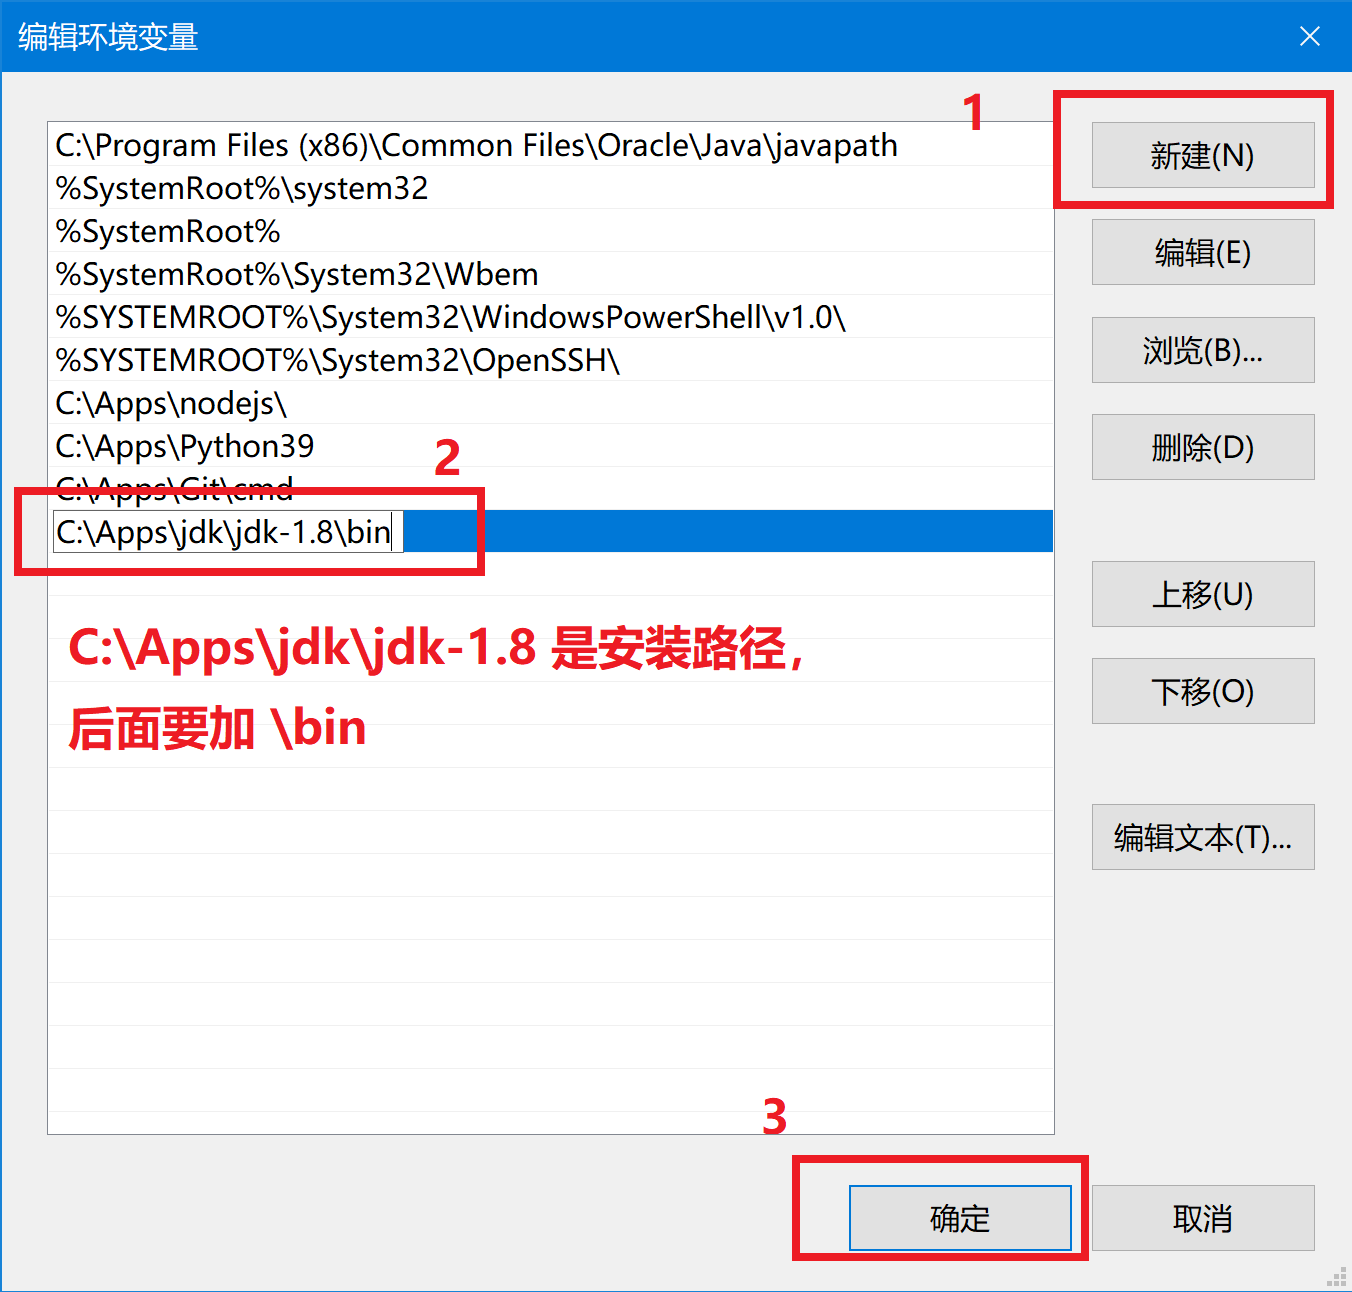
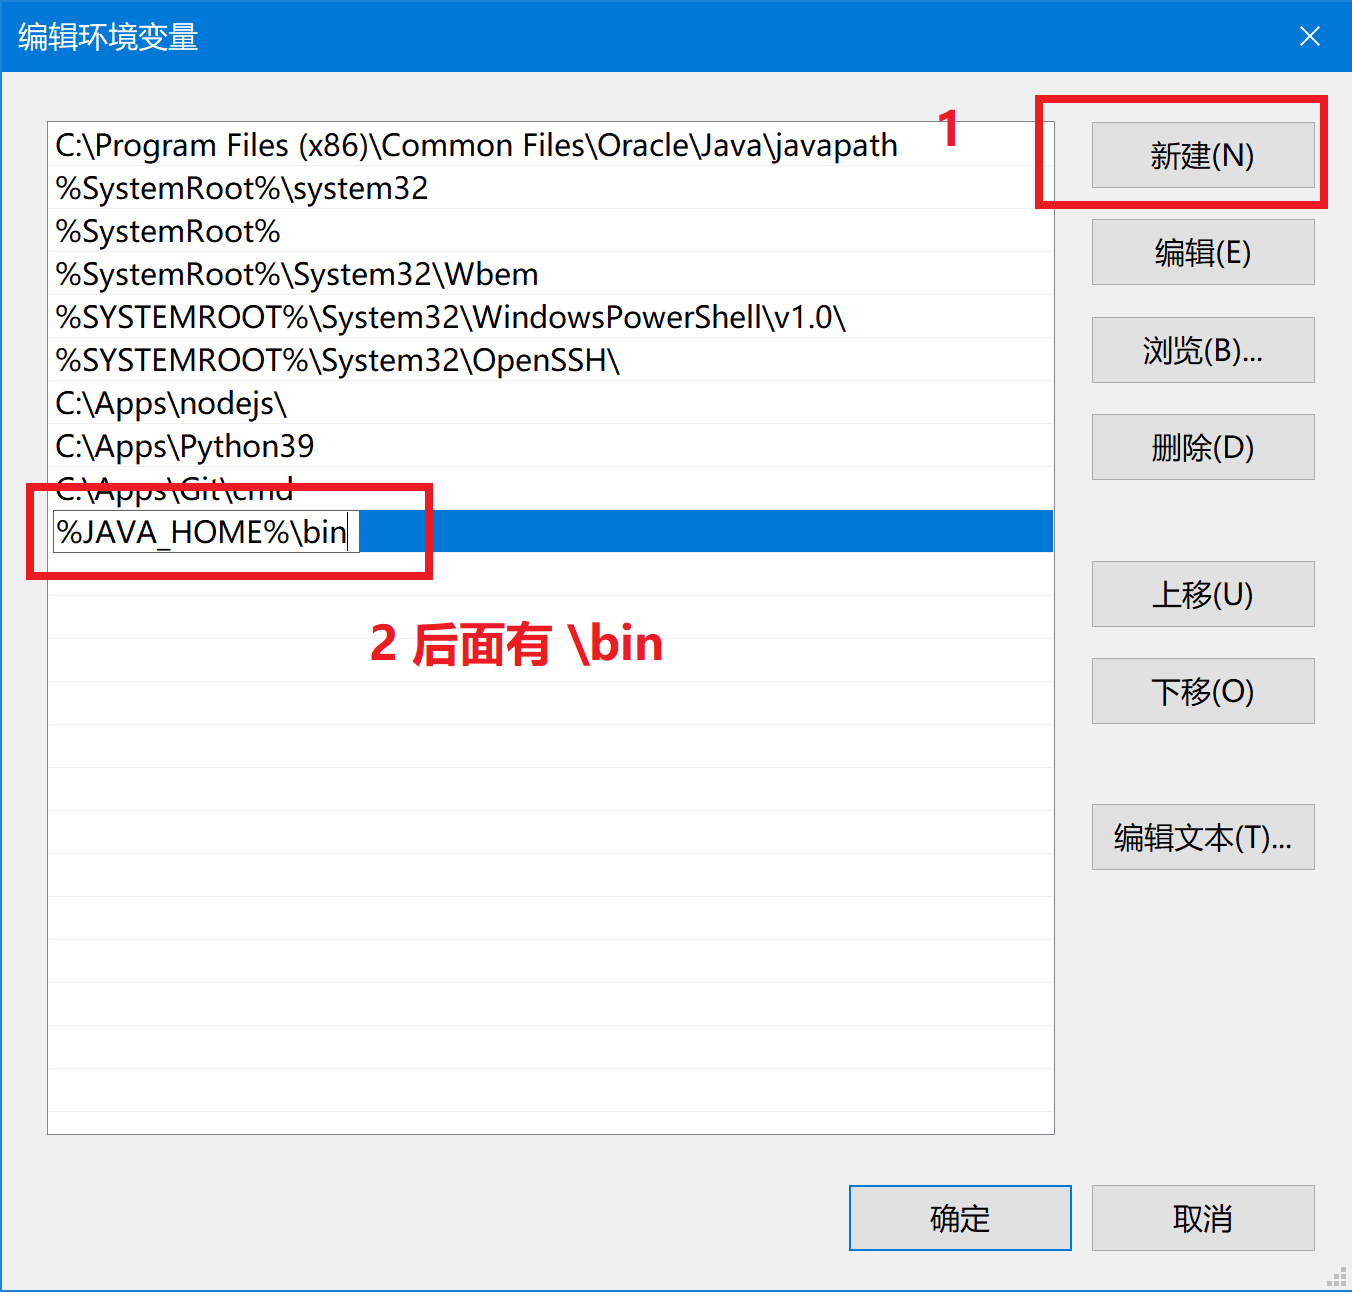
Site updated: 2021-11-29 00:30:31

diff --git a/2021/11/28/JDK1-8-8U202-安装教程/index.html b/2021/11/28/JDK1-8-8U202-安装教程/index.html
@@ -30,14 +30,15 @@
 <meta property="og:image" content="https://qkcherisheslife.gitee.io/2021/11/28/JDK1-8-8U202-%E5%AE%89%E8%A3%85%E6%95%99%E7%A8%8B/pic-03.png">
 <meta property="og:image" content="https://qkcherisheslife.gitee.io/2021/11/28/JDK1-8-8U202-%E5%AE%89%E8%A3%85%E6%95%99%E7%A8%8B/pic-04.png">
 <meta property="og:image" content="https://qkcherisheslife.gitee.io/2021/11/28/JDK1-8-8U202-%E5%AE%89%E8%A3%85%E6%95%99%E7%A8%8B/pic-05.png">
-<meta property="og:image" content="https://qkcherisheslife.gitee.io/2021/11/28/JDK1-8-8U202-%E5%AE%89%E8%A3%85%E6%95%99%E7%A8%8B/pic-06.png">
+<meta property="og:image" content="https://qkcherisheslife.gitee.io/2021/11/28/JDK1-8-8U202-%E5%AE%89%E8%A3%85%E6%95%99%E7%A8%8B/pic-06-1.png">
+<meta property="og:image" content="https://qkcherisheslife.gitee.io/2021/11/28/JDK1-8-8U202-%E5%AE%89%E8%A3%85%E6%95%99%E7%A8%8B/pic-06-2.png">
 <meta property="og:image" content="https://qkcherisheslife.gitee.io/2021/11/28/JDK1-8-8U202-%E5%AE%89%E8%A3%85%E6%95%99%E7%A8%8B/pic-07.png">
 <meta property="og:image" content="https://qkcherisheslife.gitee.io/2021/11/28/JDK1-8-8U202-%E5%AE%89%E8%A3%85%E6%95%99%E7%A8%8B/pic-08.png">
 <meta property="og:image" content="https://qkcherisheslife.gitee.io/2021/11/28/JDK1-8-8U202-%E5%AE%89%E8%A3%85%E6%95%99%E7%A8%8B/pic-09.png">
 <meta property="og:image" content="https://qkcherisheslife.gitee.io/2021/11/28/JDK1-8-8U202-%E5%AE%89%E8%A3%85%E6%95%99%E7%A8%8B/pic-10.png">
 <meta property="og:image" content="https://qkcherisheslife.gitee.io/2021/11/28/JDK1-8-8U202-%E5%AE%89%E8%A3%85%E6%95%99%E7%A8%8B/pic-11.png">
 <meta property="article:published_time" content="2021-11-28T14:47:27.000Z">
-<meta property="article:modified_time" content="2021-11-28T16:12:27.676Z">
+<meta property="article:modified_time" content="2021-11-28T16:29:35.322Z">
 <meta property="article:author" content="qkloveslife">
 <meta property="article:tag" content="JDK">
 <meta property="article:tag" content="安装教程">
@@ -215,7 +216,7 @@
   
     <span class="post-meta mr-2">
       <i class="iconfont icon-chart"></i>
-      704 字
+      759 字
     </span>
   
 
@@ -260,7 +261,7 @@
 <h2 id="下载"><a href="#下载" class="headerlink" title="下载"></a>下载</h2><p>现在下载JDK需要有ORACLE账号，不嫌麻烦的话可以申请一个，这里给出阿里云盘的分享链接：<a target="_blank" rel="noopener" href="https://www.aliyundrive.com/s/BYb7rKeJvyJ">JDK1.8下载</a>。  </p>
 <h2 id="安装"><a href="#安装" class="headerlink" title="安装"></a>安装</h2><p>由于是exe文件，所以直接双击就可以安装，安装路径我一般会自定义，如下图：<br><img src="pic-01.png" srcset="/img/loading.gif" lazyload alt=""><br>安装过程中会弹出JRE的安装路径，我一般也会自定义，如下图：<br><img src="pic-02.png" srcset="/img/loading.gif" lazyload alt=""></p>
 <h3 id="配置不更新"><a href="#配置不更新" class="headerlink" title="配置不更新"></a>配置不更新</h3><p>由于是低版本JDK，有时（尤其是重启后）会弹出更新，所以这里设置成不更新。<br>点击屏幕左下角的“开始按钮”，会弹出如下界面（由于是刚安装的，所以“配置Java”会显示在上面）。<br><img src="pic-03.png" srcset="/img/loading.gif" lazyload alt=""><br>点击“配置Java”，然后点击“更新”-&gt;取消勾选“自动检查更新”-&gt;弹出提示时选择“不检查”-&gt;“应用”-&gt;“确定”。<br><img src="pic-04.png" srcset="/img/loading.gif" lazyload alt=""></p>
-<h2 id="配置环境变量"><a href="#配置环境变量" class="headerlink" title="配置环境变量"></a>配置环境变量</h2><p>配置环境变量的目的一般有两个：1. 在命令窗口可以直接使用java和javac等命令；2. 让一些依赖Java的软件（Eclipse, MyEclipse等）能够在安装时识别别Java环境并顺利安装。<br>点击屏幕左下角的“开始按钮”，弹出后直接打字“高级系统”，会弹出如下界面：<br><img src="pic-05.png" srcset="/img/loading.gif" lazyload alt=""><br>点击“查看高级系统设置”，弹出如下界面：<br><img src="pic-06.png" srcset="/img/loading.gif" lazyload alt=""><br>点击“环境变量”，弹出如下界面：<br><img src="pic-07.png" srcset="/img/loading.gif" lazyload alt=""><br>先选择“path”，再点击“编辑”后弹出如下界面：<br><img src="pic-08.png" srcset="/img/loading.gif" lazyload alt=""><br>先点击“新建”，然后复制你的JDK目录下的“bin”文件夹的完整路径，然后一路“确定”下去。</p>
+<h2 id="配置环境变量"><a href="#配置环境变量" class="headerlink" title="配置环境变量"></a>配置环境变量</h2><p>配置环境变量的目的一般有两个：1. 在命令窗口可以直接使用java和javac等命令；2. 让一些依赖Java的软件（Eclipse, MyEclipse等）能够在安装时识别别Java环境并顺利安装。<br>点击屏幕左下角的“开始按钮”，弹出后直接打字“高级系统”，会弹出如下界面：<br><img src="pic-05.png" srcset="/img/loading.gif" lazyload alt=""><br>点击“查看高级系统设置”，弹出如下界面：<br><img src="pic-06-1.png" srcset="/img/loading.gif" lazyload alt=""><br>点击“环境变量”，弹出如下界面：<br><img src="pic-06-2.png" srcset="/img/loading.gif" lazyload alt=""><br>点击新建，弹出框“变量名”输入“JAVA_HOME”，“变量值”输入你的JDK安装路径，点解确定，然后如下图：<br><img src="pic-07.png" srcset="/img/loading.gif" lazyload alt=""><br>先选择“path”，再点击“编辑”后弹出如下界面：<br><img src="pic-08.png" srcset="/img/loading.gif" lazyload alt=""><br>先点击“新建”，然后复制你的JDK目录下的“bin”文件夹的完整路径，然后一路“确定”下去。</p>
 <h2 id="验证安装"><a href="#验证安装" class="headerlink" title="验证安装"></a>验证安装</h2><p>点击屏幕左下角的“开始按钮”，弹出后输入“cmd”，弹出如下界面：<br><img src="pic-09.png" srcset="/img/loading.gif" lazyload alt=""><br>点击“命令提示符”，弹出窗口输入“java”、“javac”测试输出，尤其是“javac”。<br><img src="pic-10.png" srcset="/img/loading.gif" lazyload alt=""><br>输入“java -version”查看JDK版本<br><img src="pic-11.png" srcset="/img/loading.gif" lazyload alt=""></p>
 
             </div>

diff --git a/categories/index.html b/categories/index.html
@@ -199,41 +199,6 @@
     <div class="category row">
       <a
         class="category-item collapsed list-group-item category-item-action col-10 col-md-11"
-        id="heading-0e82895b9f8fd648e812cb35dc4748b8" role="tab" data-toggle="collapse" href="#collapse-0e82895b9f8fd648e812cb35dc4748b8"
-        aria-expanded="false"
-      >
-        Python相关
-        <i class="iconfont icon-arrowright"></i>
-      </a>
-      <a href="/categories/Python%E7%9B%B8%E5%85%B3/" class="category-count col-2 col-md-1">
-        <i class="iconfont icon-articles"></i>
-        <span>1</span>
-      </a>
-      <div class="category-collapse collapse" id="collapse-0e82895b9f8fd648e812cb35dc4748b8" role="tabpanel" aria-labelledby="heading-0e82895b9f8fd648e812cb35dc4748b8">
-        
-        
-          
-  <div class="category-post-list">
-    
-    
-      
-      
-        <a href="/2021/11/27/Python-%E4%B9%8B%E7%A6%85/" class="list-group-item list-group-item-action">
-          <span class="category-post">Python 之禅</span>
-        </a>
-      
-    
-  </div>
-
-        
-      </div>
-    </div>
-  
-    
-    
-    <div class="category row">
-      <a
-        class="category-item collapsed list-group-item category-item-action col-10 col-md-11"
         id="heading-0ba7d90e9a16c2b5d0d9d048bf247f1e" role="tab" data-toggle="collapse" href="#collapse-0ba7d90e9a16c2b5d0d9d048bf247f1e"
         aria-expanded="false"
       >
@@ -255,6 +220,41 @@
       
         <a href="/2021/11/28/JDK1-8-8U202-%E5%AE%89%E8%A3%85%E6%95%99%E7%A8%8B/" class="list-group-item list-group-item-action">
           <span class="category-post">JDK1.8(8U202)安装教程</span>
+        </a>
+      
+    
+  </div>
+
+        
+      </div>
+    </div>
+  
+    
+    
+    <div class="category row">
+      <a
+        class="category-item collapsed list-group-item category-item-action col-10 col-md-11"
+        id="heading-0e82895b9f8fd648e812cb35dc4748b8" role="tab" data-toggle="collapse" href="#collapse-0e82895b9f8fd648e812cb35dc4748b8"
+        aria-expanded="false"
+      >
+        Python相关
+        <i class="iconfont icon-arrowright"></i>
+      </a>
+      <a href="/categories/Python%E7%9B%B8%E5%85%B3/" class="category-count col-2 col-md-1">
+        <i class="iconfont icon-articles"></i>
+        <span>1</span>
+      </a>
+      <div class="category-collapse collapse" id="collapse-0e82895b9f8fd648e812cb35dc4748b8" role="tabpanel" aria-labelledby="heading-0e82895b9f8fd648e812cb35dc4748b8">
+        
+        
+          
+  <div class="category-post-list">
+    
+    
+      
+      
+        <a href="/2021/11/27/Python-%E4%B9%8B%E7%A6%85/" class="list-group-item list-group-item-action">
+          <span class="category-post">Python 之禅</span>
         </a>
       
     

diff --git a/about/index.html b/about/index.html
@@ -237,7 +237,7 @@
 <article class="about-content page-content mt-5">
   <div class="markdown-body">
     <p>听首歌吧。<br><!-- 简单示例 (id, server, type)  --><br>
-    <div id="aplayer-mmSUwyJt" class="aplayer aplayer-tag-marker meting-tag-marker"
+    <div id="aplayer-pEwjvxaR" class="aplayer aplayer-tag-marker meting-tag-marker"
          data-id="7090889397" data-server="netease" data-type="playlist" data-mode="circulation" data-autoplay="false" data-mutex="true" data-listmaxheight="340px" data-preload="auto" data-theme="#1685a9"
     ></div></p>
 
